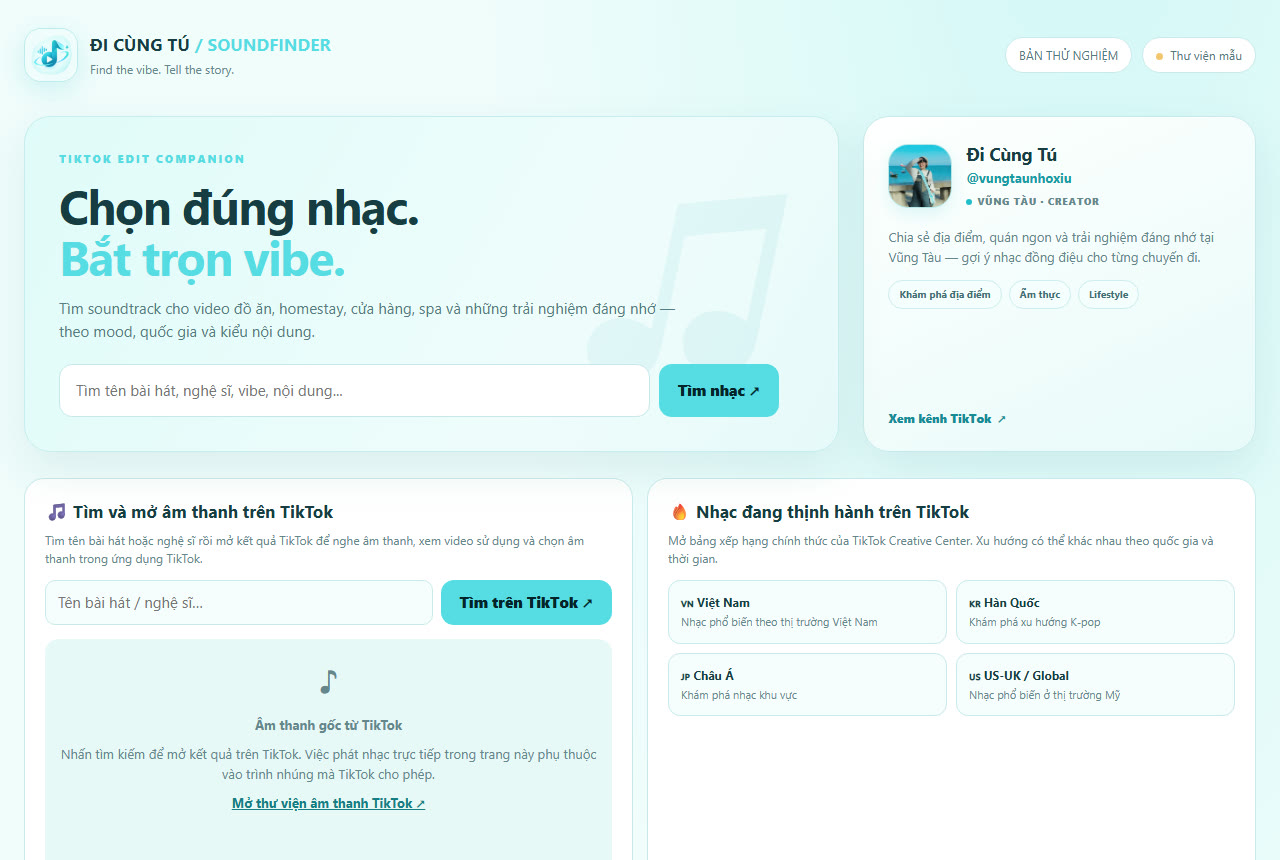
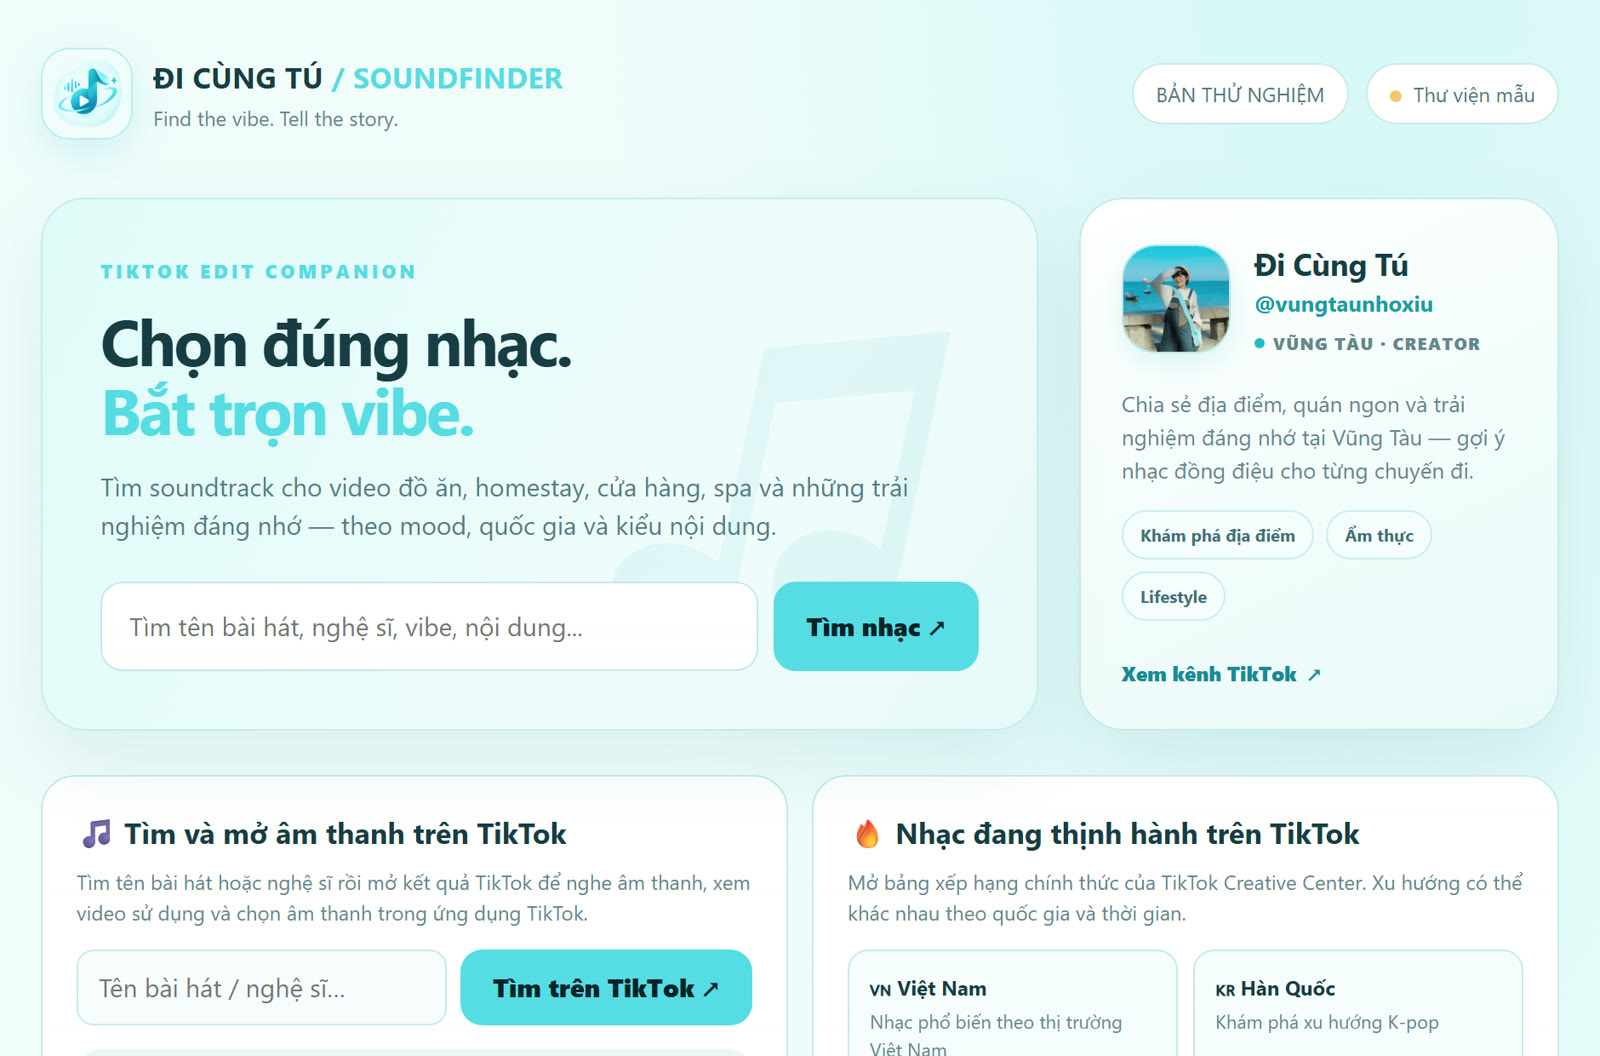
Cap nhat 05/11/2026 21:02

diff --git a/index.html b/index.html
@@ -1356,8 +1356,11 @@
     .lab .bgfx .b3 { background: var(--fx-blob-a); }
     .lab-intro { max-width: 620px; margin: -14px auto 56px; text-align: center; font-size: 15.5px; line-height: 1.65; color: var(--muted); }
     .lab-list { display: grid; gap: 34px; width: min(1180px, 100%); margin: 0 auto; }
-    .lab-card { display: grid; grid-template-columns: 1.25fr 1fr; align-items: center; gap: clamp(24px, 4vw, 56px); padding: clamp(18px, 2.4vw, 30px); border-radius: 30px; background: rgba(255,250,243,.78); border: 1px solid #eadcc7; box-shadow: 0 18px 50px rgba(90,60,30,.08); }
-    .lab-card.rev { grid-template-columns: 1fr 1.25fr; }
+    .lab-card { display: grid; grid-template-columns: minmax(0, 2.1fr) minmax(0, 1fr); align-items: center; gap: clamp(22px, 3vw, 44px); padding: clamp(16px, 2vw, 26px); border-radius: 30px; background: rgba(255,250,243,.78); border: 1px solid #eadcc7; box-shadow: 0 18px 50px rgba(90,60,30,.08); }
+    .lab-card.rev { grid-template-columns: minmax(0, 1fr) minmax(0, 2.1fr); }
+    .lab-body { padding-right: 8px; }
+    .lab-card.rev .lab-body { padding: 0 0 0 8px; }
+    .lab-body > p { margin-bottom: 20px; }
     .lab-card.rev .lab-shot { order: 2; }
     .lab-shot { margin: 0; overflow: hidden; border-radius: 18px; background: #fff; border: 1px solid #e6d6bf; box-shadow: 0 14px 34px rgba(70,45,20,.14); transform: rotate(-.6deg); transition: transform .5s cubic-bezier(.2,.9,.2,1), box-shadow .5s; }
     .lab-card.rev .lab-shot { transform: rotate(.6deg); }
@@ -1367,12 +1370,12 @@
     .lab-bar i:nth-child(2) { background: #e9c77f; }
     .lab-bar i:nth-child(3) { background: #a9c99a; }
     .lab-bar span { margin-left: 8px; font-size: 11.5px; font-weight: 500; letter-spacing: .02em; color: #8a7360; }
-    .lab-shot img { width: 100%; aspect-ratio: 1280 / 820; object-fit: cover; object-position: top center; }
+    .lab-shot img { width: 100%; aspect-ratio: 1880 / 1240; object-fit: cover; object-position: top center; }
     .lab-head { display: flex; align-items: center; gap: 14px; margin-bottom: 16px; }
     .lab-head img { flex: none; width: 56px; height: 56px; border-radius: 16px; object-fit: cover; background: #fff; border: 1px solid #eadcc7; box-shadow: 0 4px 12px rgba(70,45,20,.1); }
     .lab-kind { display: block; margin-bottom: 2px; font-size: 11.5px; font-weight: 600; letter-spacing: .1em; text-transform: uppercase; color: var(--accent); }
     .lab-body h3 { font-family: var(--display); font-size: clamp(26px, 2.6vw, 34px); font-weight: 500; letter-spacing: -.03em; line-height: 1.1; color: var(--ink); }
-    .lab-body > p { font-size: 15px; line-height: 1.65; color: #6b5a4b; }
+    .lab-body > p { font-size: 15.5px; line-height: 1.65; color: #6b5a4b; }
     .lab-feat { display: grid; gap: 9px; margin: 18px 0 20px; }
     .lab-feat li { position: relative; padding-left: 26px; font-size: 14px; line-height: 1.45; color: #4a3a2d; }
     .lab-feat li::before { content: ""; position: absolute; left: 2px; top: 4px; width: 14px; height: 14px; border-radius: 50%; background: var(--pill); box-shadow: inset 0 0 0 4px #f0e3d0, inset 0 0 0 14px var(--accent); }
@@ -1381,6 +1384,7 @@
     @media (max-width: 900px) {
       .lab-card, .lab-card.rev { grid-template-columns: minmax(0, 1fr); }
       .lab-card.rev .lab-shot { order: 0; }
+      .lab-body, .lab-card.rev .lab-body { padding: 0 4px 4px; }
       .lab-shot, .lab-card.rev .lab-shot { transform: none; }
     }
     @media (max-width: 760px) { .lab { padding: 10vh 16px 11vh; } .lab-intro { margin: -8px auto 36px; font-size: 14.5px; } .lab-card { border-radius: 24px; } }
@@ -2440,7 +2444,7 @@
         <span class="pill reveal">Mini Tools</span>
         <h2 class="h2 split">Công cụ nhỏ<br><em>mình tự làm.</em></h2>
       </div>
-      <p class="lab-intro reveal">Ngoài làm nội dung, mình còn tự làm vài công cụ nhỏ để công việc hằng ngày nhanh và vui hơn. Gặp việc gì lặp đi lặp lại là mình muốn có một cái tool cho nó.</p>
+      <p class="lab-intro reveal">Vài công cụ nhỏ mình tự làm để công việc hằng ngày nhanh và vui hơn.</p>
       <div class="lab-list">
         <article class="lab-card reveal">
           <figure class="lab-shot">
@@ -2452,13 +2456,8 @@
               <img src="hinh/tool/soundfinder-logo.png" alt="">
               <div><span class="lab-kind">TikTok Edit Companion</span><h3>SoundFinder</h3></div>
             </div>
-            <p>Tool tìm nhạc nền cho video TikTok. Tìm theo tên bài hát, nghệ sĩ hoặc vibe, xem bảng nhạc đang thịnh hành theo từng quốc gia, rồi lưu sound ưng ý vào thư mục để lần sau dựng video lấy ra dùng ngay.</p>
-            <ul class="lab-feat">
-              <li>Tìm sound theo mood và kiểu nội dung</li>
-              <li>Nhạc trending Việt Nam, Hàn Quốc, Châu Á, US-UK</li>
-              <li>Lưu sound và thư mục, xem lại được cả khi offline</li>
-            </ul>
-            <div class="lab-tags"><span>Windows app</span><span>Portable, không cần cài</span><span>HTML · JavaScript</span></div>
+            <p>Tìm nhạc nền TikTok theo mood, xem nhạc đang thịnh hành và lưu sound ưng ý để dựng video nhanh hơn.</p>
+            <div class="lab-tags"><span>Windows app</span><span>HTML · JS</span></div>
           </div>
         </article>
         <article class="lab-card rev reveal">
@@ -2471,13 +2470,8 @@
               <img src="hinh/tool/pompom-logo.jpg" alt="">
               <div><span class="lab-kind">Desktop Notes App</span><h3>Pompom Notes</h3></div>
             </div>
-            <p>App ghi chú nhỏ xinh cho Windows. Ghi ý tưởng, lập danh sách việc cần làm và tích từng mục khi xong, ghim ghi chú quan trọng, hoặc tách một ghi chú ra cửa sổ nhỏ luôn nổi trên màn hình trong lúc làm việc.</p>
-            <ul class="lab-feat">
-              <li>Ghi chú kèm checklist việc cần làm</li>
-              <li>Ghim, lọc theo danh mục, tìm kiếm nhanh</li>
-              <li>Cửa sổ mini luôn nổi, dữ liệu lưu ngay trên máy</li>
-            </ul>
-            <div class="lab-tags"><span>Windows app</span><span>Electron</span><span>Portable, không cần cài</span></div>
+            <p>App ghi chú và checklist việc cần làm, có thể tách ghi chú ra cửa sổ nhỏ luôn nổi trên màn hình.</p>
+            <div class="lab-tags"><span>Windows app</span><span>Electron</span></div>
           </div>
         </article>
       </div>
